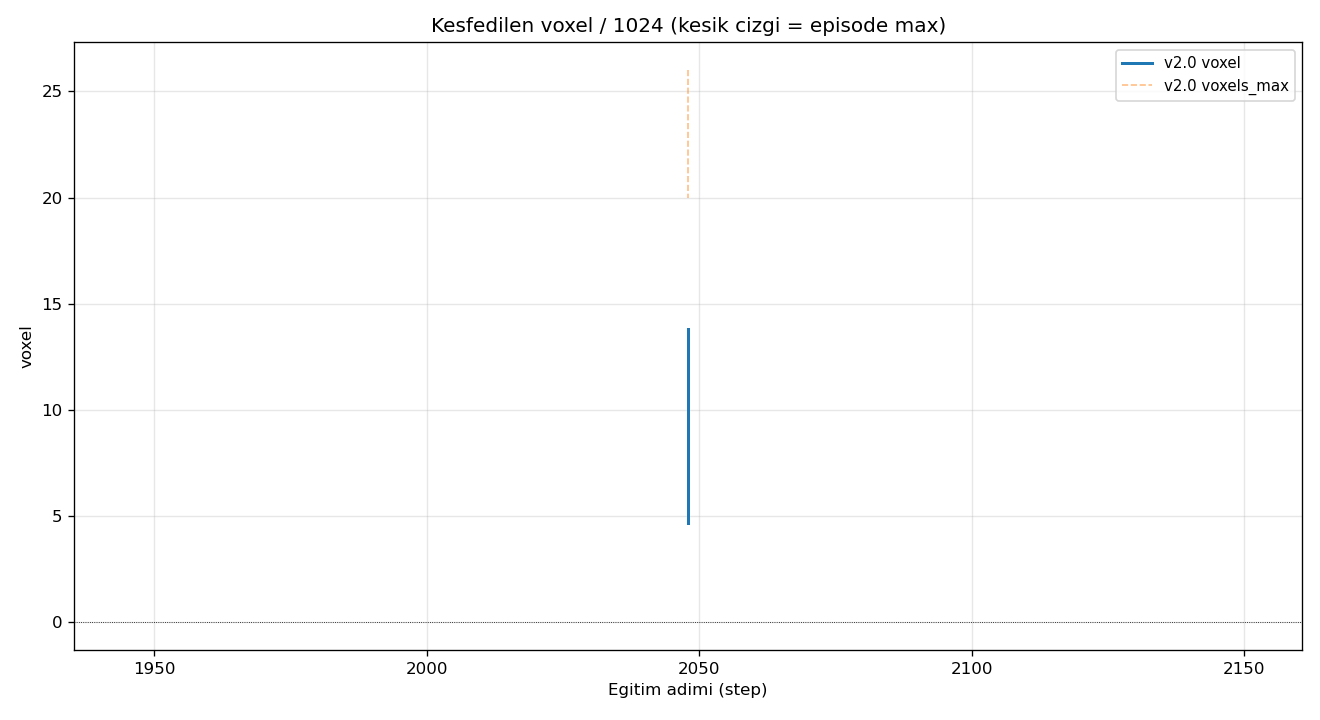
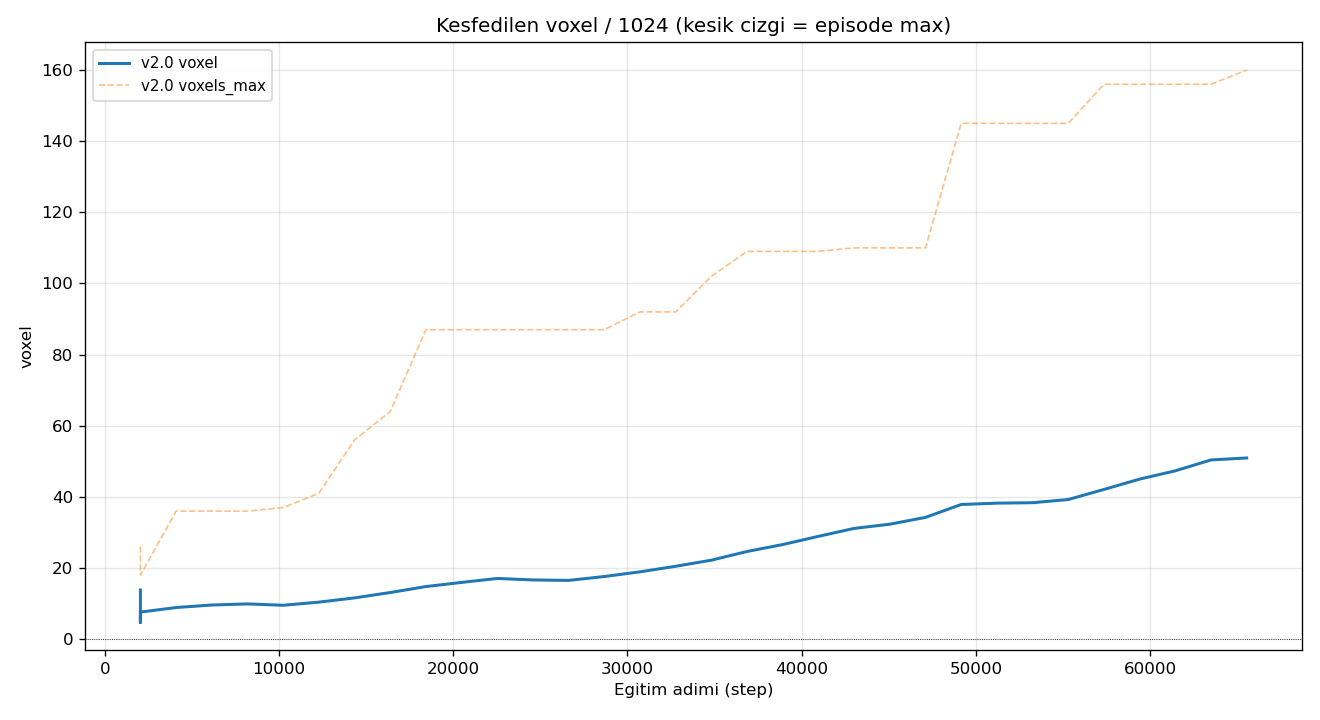
auto(operator): refresh report @65k steps, healthy

diff --git a/docs/REPORT.md b/docs/REPORT.md
@@ -6,7 +6,7 @@ Otomatik uretildi (`scripts/report.py`). Operator agent gunceller.
 
 | Versiyon | Son step | Son reward | Peak reward | Peak voxel (max) | Peak oda (max) |
 |---|---|---|---|---|---|
-| v2.0 | 2,048 | -10.8 | -10.8 | 26/1024 | 1/6 |
+| v2.0 | 65,536 | +53.9 | +53.9 | 160/1024 | 5/6 |
 
 ## Versiyon / Mudahale Gunlugu
 
